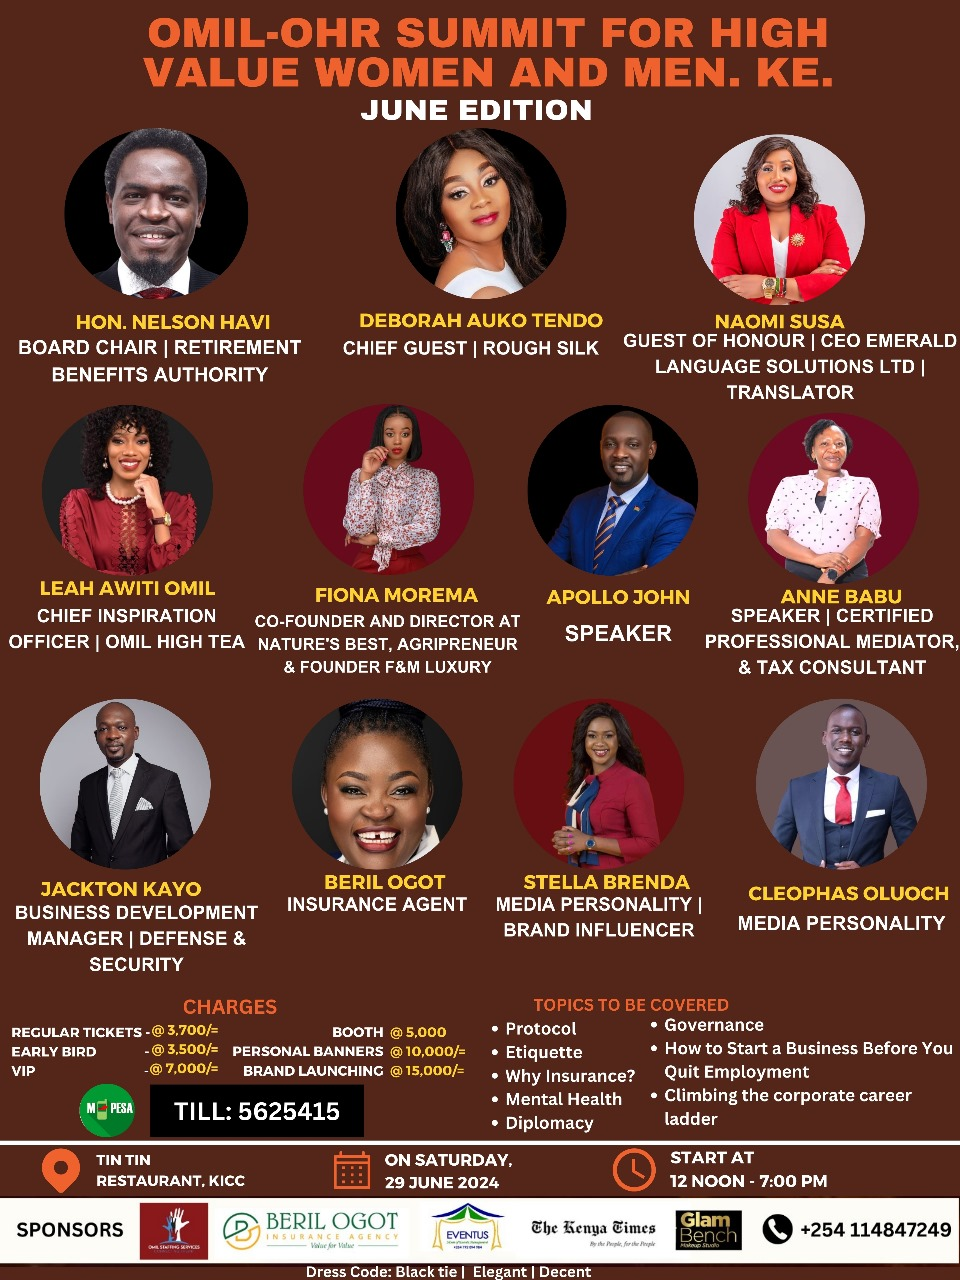
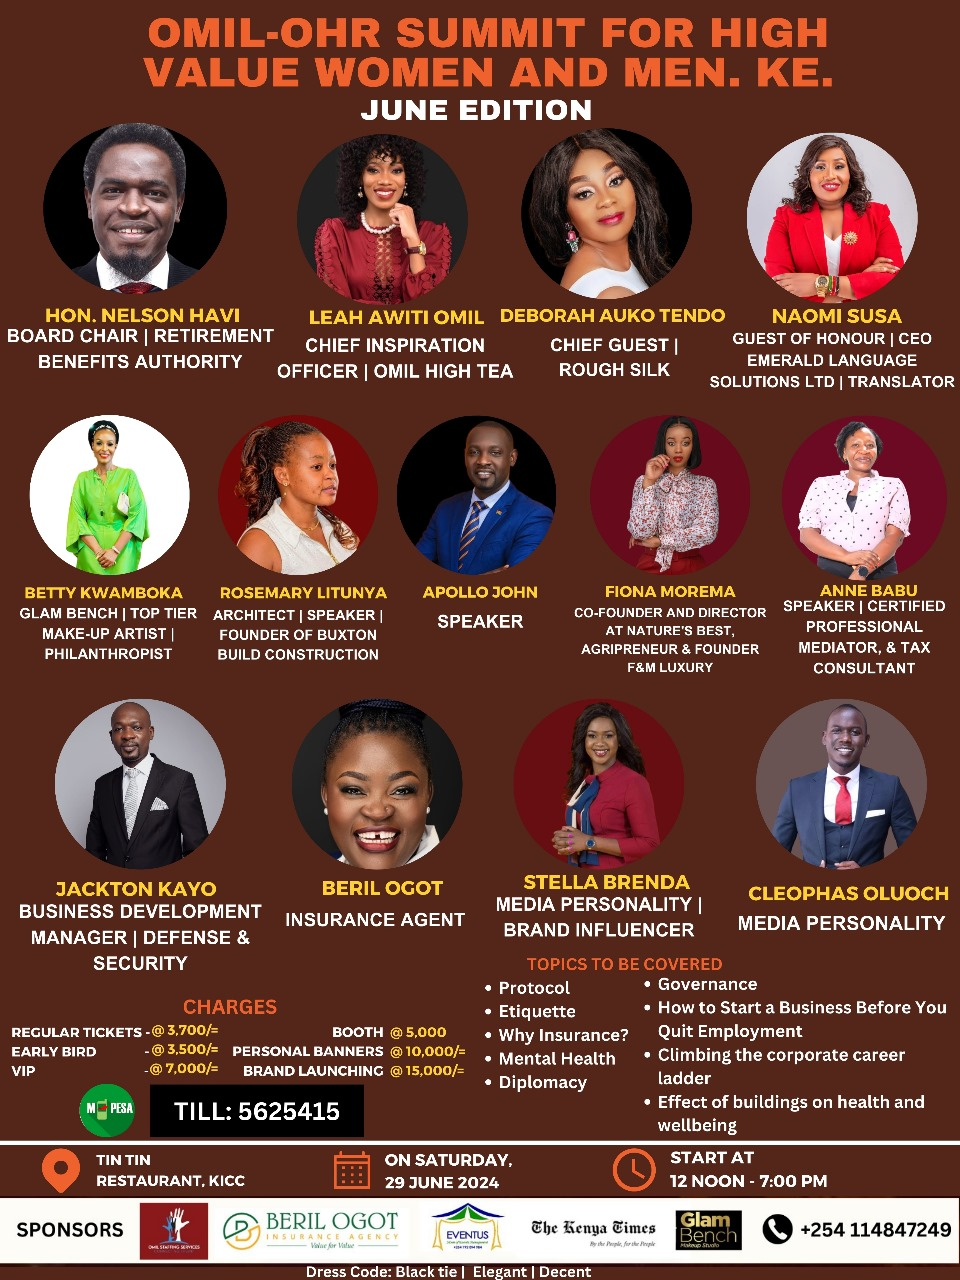
changes

Changed region(s): [[0.0, 0.0938, 1.0, 0.7812], [0.5, 0.75, 0.9688, 0.9062]]

diff --git a/OHR-Summits.html b/OHR-Summits.html
@@ -214,10 +214,10 @@
                         <div class="news-block-one wow fadeInUp animated" data-wow-delay="00ms" data-wow-duration="1500ms">
                             <div class="inner-box">
                                 <figure class="image-box">
-                                    <img src="assets/gallery/WhatsApp Image 2024-06-07 at 22.59.39.jpeg" alt="">
+                                    <img src="assets/gallery/WhatsApp Image 2024-08-12 at 18.15.00_ed6c74f7.jpg" alt="">
                                 </figure>
                                 <div class="link">
-                                    <a href="assets/gallery/WhatsApp Image 2024-06-07 at 22.59.39.jpeg" class="lightbox-image" data-fancybox="gallery"></a>
+                                    <a href="assets/gallery/WhatsApp Image 2024-08-12 at 18.15.00_ed6c74f7.jpg" class="lightbox-image" data-fancybox="gallery"></a>
                                 </div>
                             </div>
                         </div>
@@ -246,6 +246,7 @@
                                         <li>Governance</li>
                                         <li>How to start a business before you quit employment</li>
                                         <li>Climbing the corporate career ladder</li>
+                                        <li>Effects of buildings on health and wellbeing</li>
                                     </ul>
                                     <button class="theme-btn-one">Add Me</button>
                                 </div>
@@ -347,7 +348,7 @@
                                     </div>
                                     <div class="post-inner">
                                         <div class="post">
-                                            <figure class="post-thumb"><a href="OHR-Summits.html"><img src="assets/gallery/WhatsApp Image 2024-06-07 at 22.59.39.jpeg" alt=""></a></figure>
+                                            <figure class="post-thumb"><a href="OHR-Summits.html"><img src="assets/gallery/WhatsApp Image 2024-08-12 at 18.15.00_ed6c74f7.jpg" alt=""></a></figure>
                                             <h6><a href="OHR-Summits.html">Omil-OHR summit for high value women and men</a></h6>
                                             <span class="post-date">29 Jun, 2024</span>
                                         </div>
